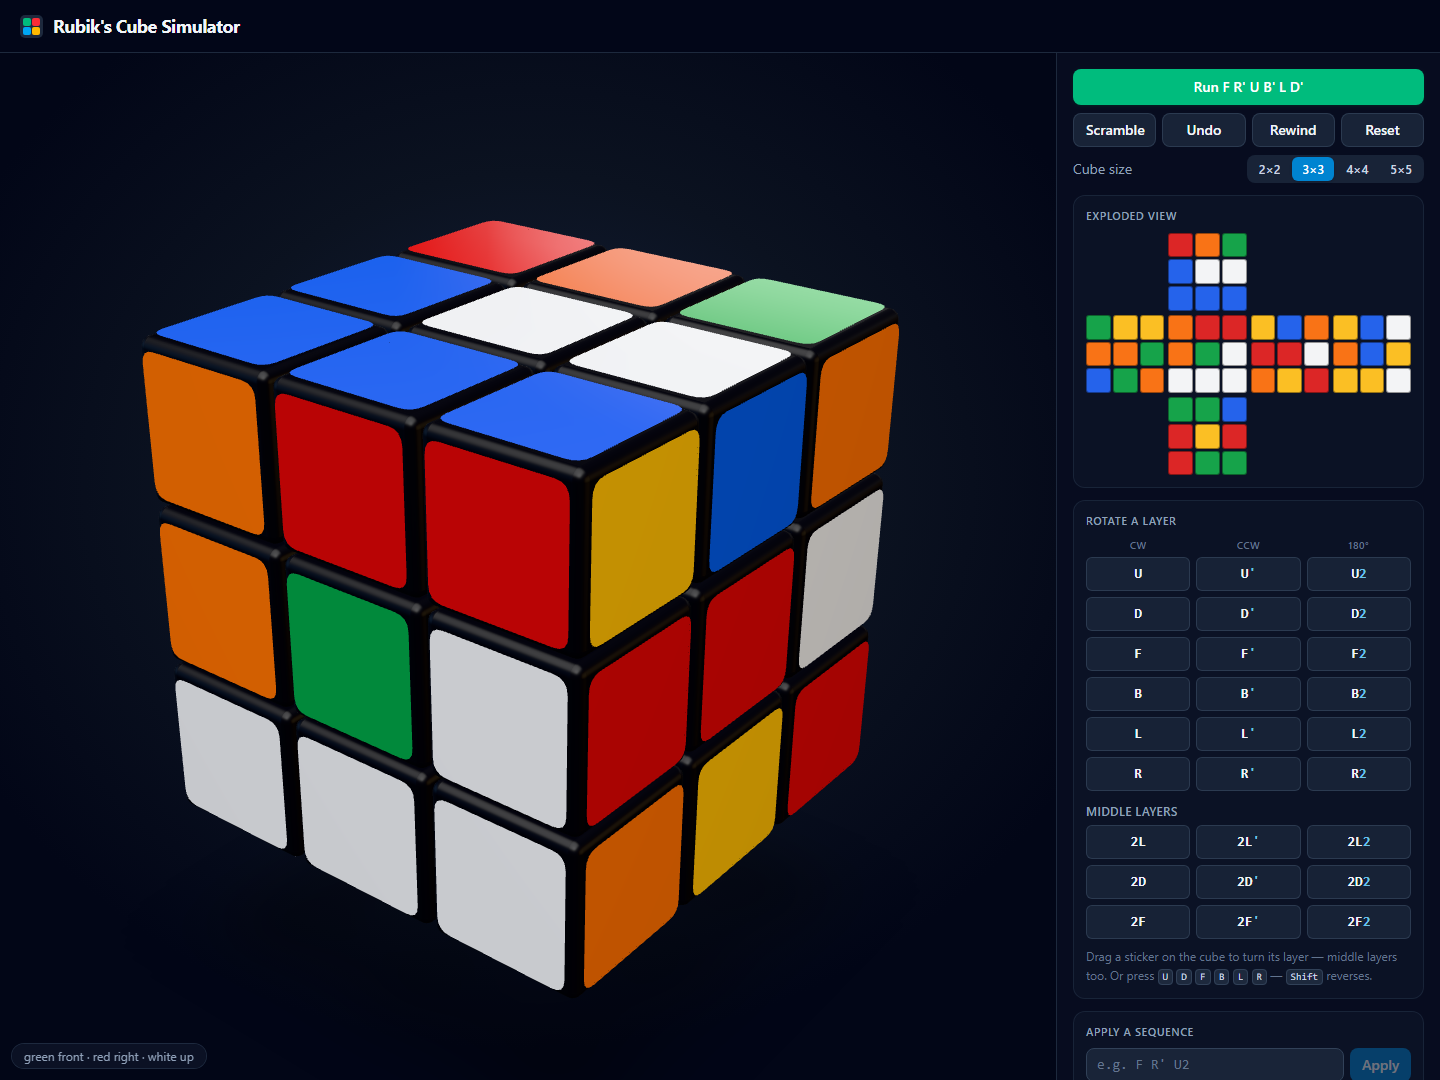
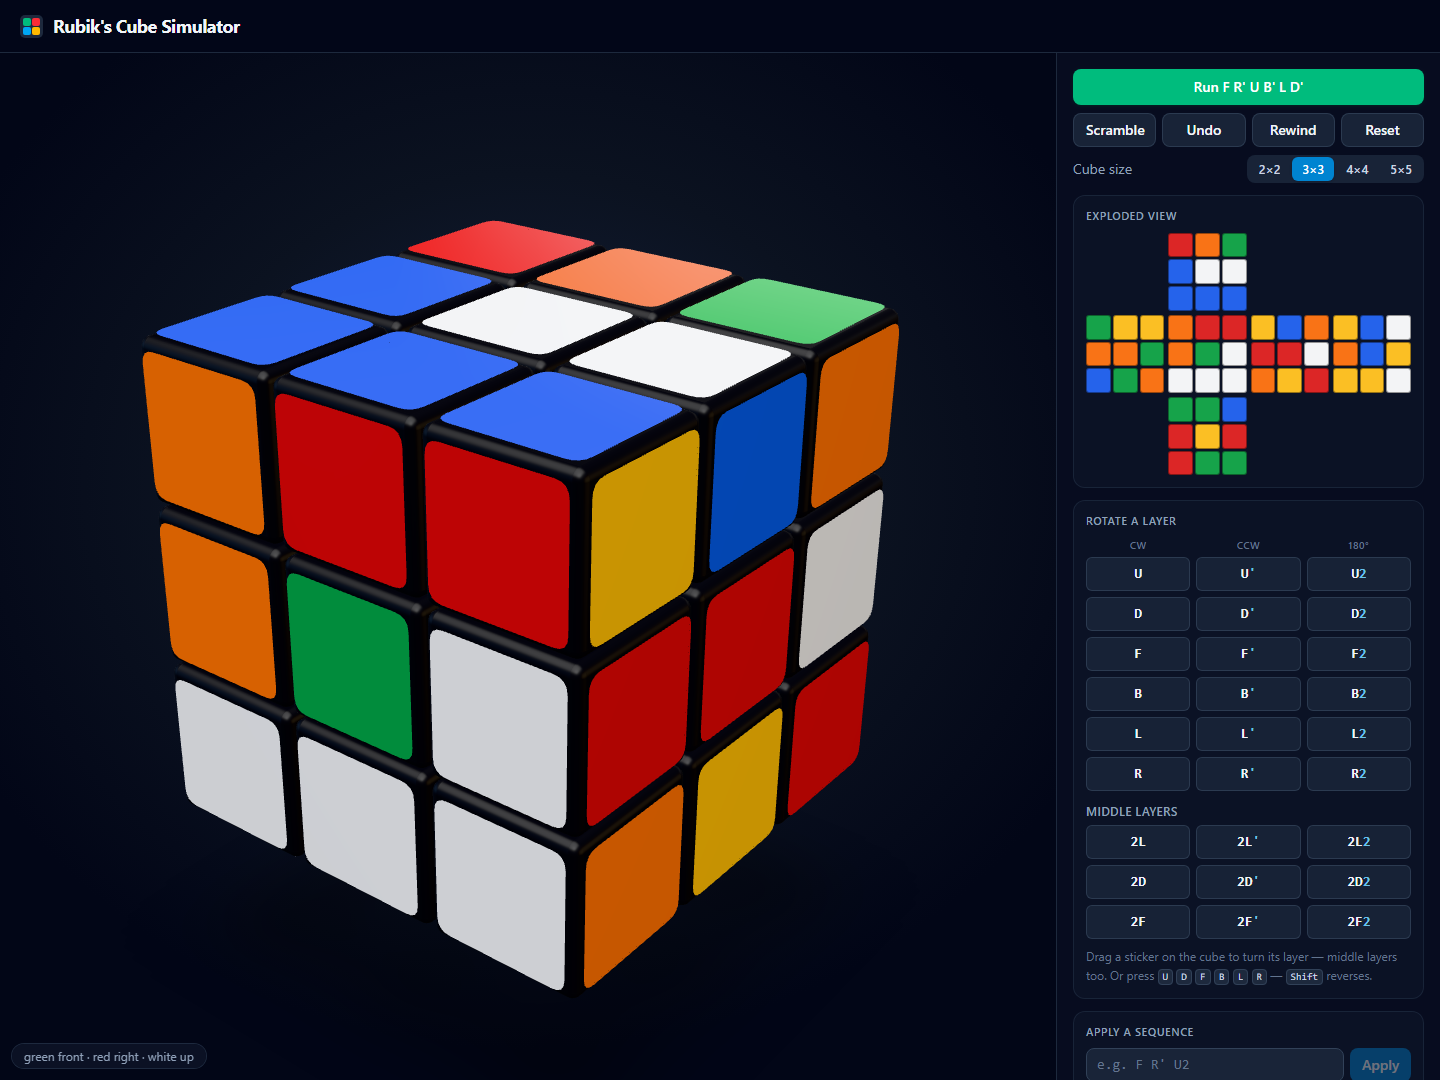
fix(e2e): make the suite independent of WebGL rendering speed
The visual upgrade made animation frames meaningfully heavier, and on
machines that render WebGL in software (CI runners) the suite turned
flaky: the first canvas frame compiles every shader and can block the
main thread for seconds, and each animated turn stretches with GPU
contention.

Three changes restore determinism. openApp now waits for the scene's
first rendered frame -- two animation frames after the canvas appears --
so no test interacts before the app is actually interactive. Specs that
verify state handling (keyboard, typed sequences, mobile) run under
reduced motion like the rewind and task specs already did; real animated
playback remains covered by the drag spec. And stickers use the standard
material rather than clearcoat -- the environment reflections carry the
look, at roughly half the per-frame shader cost -- while the contact
shadow bakes once instead of re-rendering every frame.

The screenshot script also now genuinely waits for the run to finish
(isEnabled does not wait; expect(...).toBeEnabled does), so the captured
header no longer shows a mid-run progress badge.

Verified locally with three consecutive full-suite runs.

Changed region(s): [[0.375, 0.2139, 0.625, 0.3361]]

diff --git a/apps/web/src/cube/Cube3D.tsx b/apps/web/src/cube/Cube3D.tsx
@@ -3,7 +3,6 @@ import { Canvas, useFrame, useThree, type ThreeEvent } from '@react-three/fiber'
 import { ContactShadows, Environment, Lightformer, OrbitControls } from '@react-three/drei';
 import {
   Group,
-  MeshPhysicalMaterial,
   MeshStandardMaterial,
   NeutralToneMapping,
   Plane,
@@ -65,17 +64,18 @@ const bodyMaterial = new MeshStandardMaterial({
   roughness: 0.45,
   metalness: 0.05,
 });
-// Clearcoat reads as the glossy laminate of real stickers once the
-// environment map gives it something to reflect.
+// Low roughness plus the environment map reads as the glossy laminate of
+// real stickers. (Standard rather than physical/clearcoat material: the
+// clearcoat shader costs roughly double per frame, which software-GL
+// environments — CI, old machines — pay on every animation frame.)
 const stickerMaterials = new Map(
   Object.keys(STICKER_COLORS).map((letter) => [
     letter,
-    new MeshPhysicalMaterial({
+    new MeshStandardMaterial({
       color: colorOf(letter),
-      roughness: 0.28,
-      clearcoat: 0.9,
-      clearcoatRoughness: 0.18,
-      envMapIntensity: 0.85,
+      roughness: 0.25,
+      metalness: 0,
+      envMapIntensity: 1,
     }),
   ]),
 );
@@ -485,6 +485,8 @@ export function Cube3D({ state, animation, onAnimationComplete, onMove }: Cube3D
         onAnimationComplete={onAnimationComplete}
         onMove={onMove}
       />
+      {/* Baked once: the cube's blurred silhouette barely changes while a
+          layer turns, and re-rendering it every frame would tax weak GPUs. */}
       <ContactShadows
         position={[0, -2.4, 0]}
         opacity={0.45}
@@ -492,7 +494,7 @@ export function Cube3D({ state, animation, onAnimationComplete, onMove }: Cube3D
         blur={2.5}
         far={3.5}
         resolution={256}
-        frames={Infinity}
+        frames={1}
       />
       <OrbitControls enablePan={false} minDistance={5} maxDistance={14} makeDefault />
     </Canvas>

diff --git a/e2e/tests/moves.spec.ts b/e2e/tests/moves.spec.ts
@@ -2,23 +2,31 @@ import { expect, test } from '@playwright/test';
 
 import { openApp } from './helpers';
 
+// These specs verify move/undo/reset state handling, not animation playback
+// (the drag spec covers a real animated turn). Reduced motion keeps them
+// deterministic on machines that render WebGL in software.
+test.use({ contextOptions: { reducedMotion: 'reduce' } });
+
 test('keyboard turns apply and undo reverts them', async ({ page }) => {
   await openApp(page);
 
+  // Animated turns render in software on CI; every step gets headroom.
   await page.keyboard.press('f');
-  await expect(page.getByText('1 move', { exact: true })).toBeVisible();
+  await expect(page.getByText('1 move', { exact: true })).toBeVisible({ timeout: 15_000 });
 
   await page.keyboard.press('Shift+R');
-  await expect(page.getByText('2 moves')).toBeVisible();
+  await expect(page.getByText('2 moves')).toBeVisible({ timeout: 15_000 });
   await expect(page.getByTestId('history-panel').getByText("R'")).toBeVisible();
 
   const undo = page.getByRole('button', { name: 'Undo' });
+  await expect(undo).toBeEnabled({ timeout: 15_000 });
   await undo.click();
-  await expect(page.getByText('1 move', { exact: true })).toBeVisible();
+  await expect(page.getByText('1 move', { exact: true })).toBeVisible({ timeout: 15_000 });
+  await expect(undo).toBeEnabled({ timeout: 15_000 });
   await undo.click();
 
-  await expect(page.getByText('0 moves')).toBeVisible();
-  await expect(page.getByTestId('solved-badge')).toBeVisible({ timeout: 10_000 });
+  await expect(page.getByText('0 moves')).toBeVisible({ timeout: 15_000 });
+  await expect(page.getByTestId('solved-badge')).toBeVisible({ timeout: 15_000 });
 });
 
 test('a typed sequence applies and reset restores the solved cube', async ({ page }) => {

diff --git a/e2e/tests/helpers.ts b/e2e/tests/helpers.ts
@@ -35,4 +35,16 @@ export async function openApp(page: Page): Promise<void> {
   await page.goto('/');
   await expect(page.getByTestId('net-view')).toBeVisible();
   await expect(page.getByTestId('solved-badge')).toBeVisible();
+
+  // The 3D scene's first frame compiles every shader and bakes the
+  // environment map — on the software GL of a CI runner that can block the
+  // main thread for seconds. Two animation frames after the canvas appears
+  // means the scene has actually rendered and the app is interactive.
+  await page.locator('canvas').waitFor({ state: 'visible' });
+  await page.evaluate(
+    () =>
+      new Promise<void>((resolve) => {
+        requestAnimationFrame(() => requestAnimationFrame(() => resolve()));
+      }),
+  );
 }

diff --git a/e2e/tests/mobile.spec.ts b/e2e/tests/mobile.spec.ts
@@ -2,6 +2,9 @@
 
 import { openApp } from './helpers';
 
+// Layout and touch handling are under test here, not animation playback.
+test.use({ contextOptions: { reducedMotion: 'reduce' } });
+
 test('the layout works on a phone: no horizontal overflow, touch moves apply', async ({
   page,
 }) => {